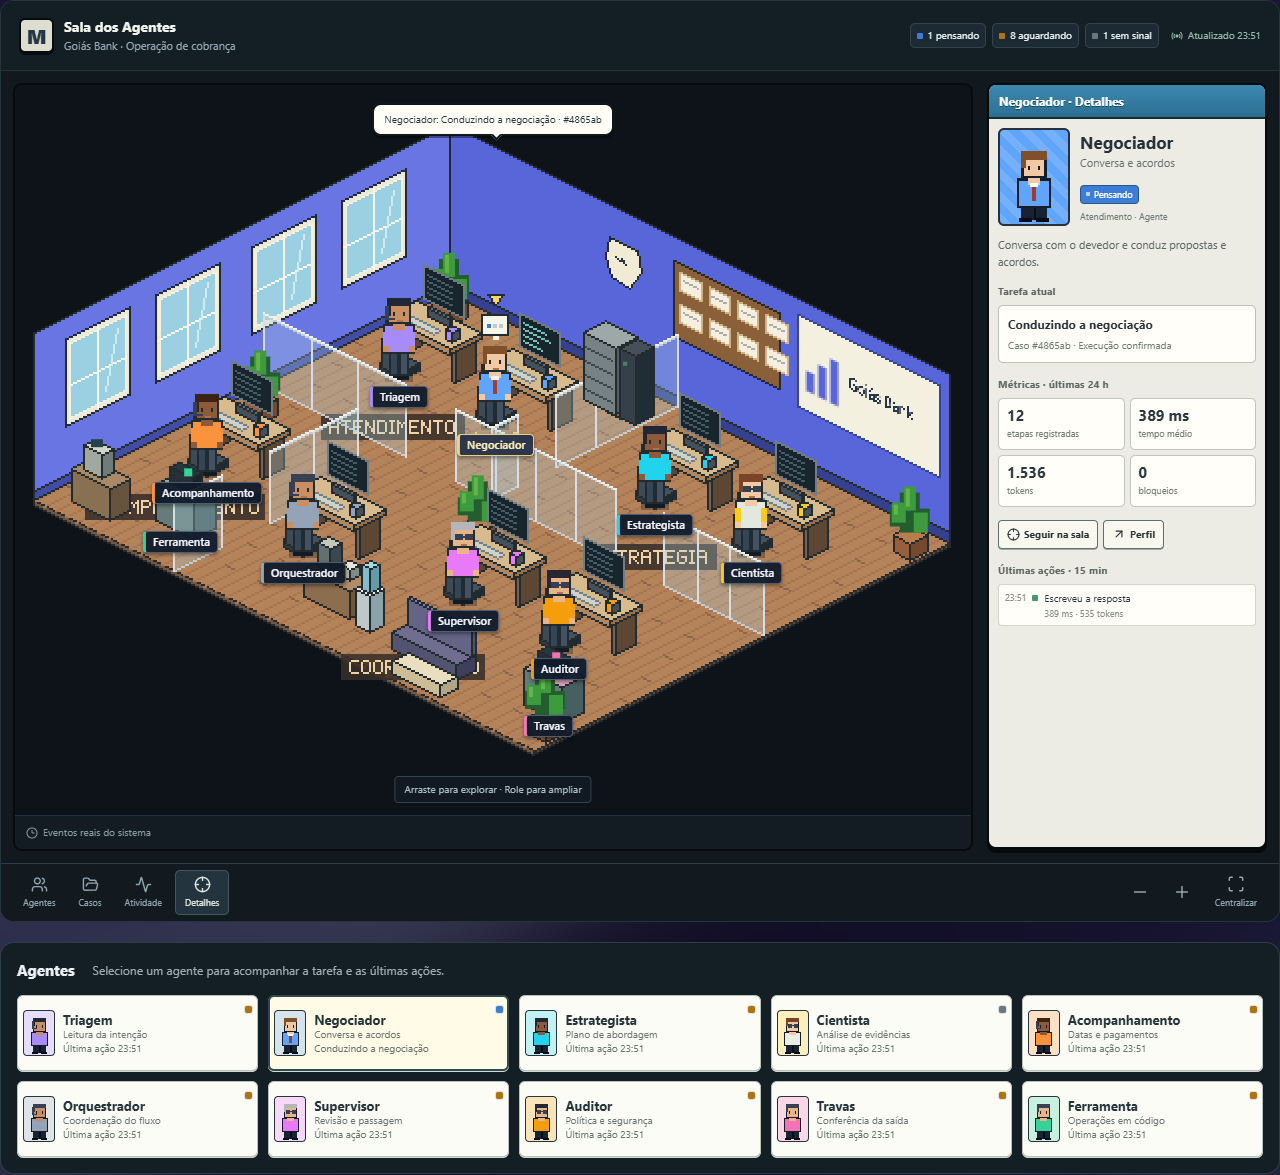
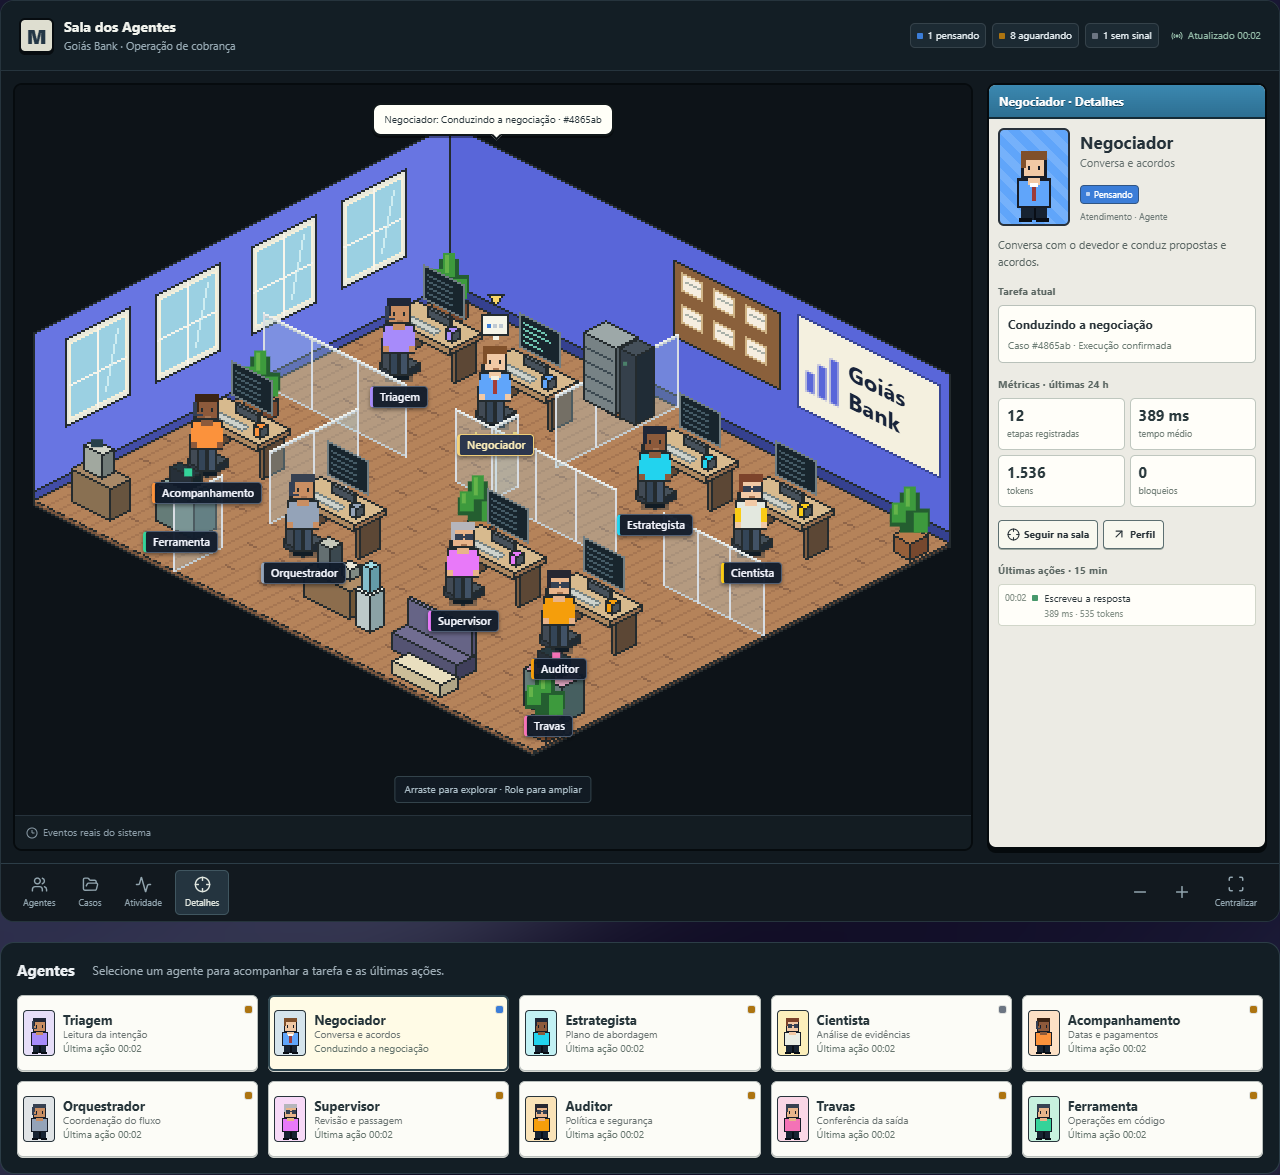
fix: melhorar placa da empresa e conter folhas do mural

diff --git a/frontend/src/components/escritorio/canvas.js b/frontend/src/components/escritorio/canvas.js
@@ -1,5 +1,6 @@
 import { AGENTES } from './config'
-import { PAREDES, texturaNome } from './marca.js'
+import { PAREDES } from './marca.js'
+import { MURAL, FOLHAS_MURAL, PLACA } from './parede.js'
 
 export const W = 544, H = 380
 export const P = (x, y, z = 0) => [240 + (x - y) * 16, 110 + (x + y) * 8 - z]
@@ -41,32 +42,6 @@ export function box(c, x, y, w, d, h, topo, esq, dir, z = 0) {
   poly(c,[f,b,up(b),up(f)],dir)
   poly(c,[up(a),up(b),up(f),up(e)],topo)
 }
-const letras = {
- A:['01110','10001','10001','11111','10001','10001','10001'], B:['11110','10001','10001','11110','10001','10001','11110'],
- C:['01111','10000','10000','10000','10000','10000','01111'], D:['11110','10001','10001','10001','10001','10001','11110'],
- E:['11111','10000','10000','11110','10000','10000','11111'], F:['11111','10000','10000','11110','10000','10000','10000'],
- G:['01111','10000','10000','10111','10001','10001','01110'], H:['10001','10001','10001','11111','10001','10001','10001'],
-  I:['111','010','010','010','010','010','111'], J:['00111','00010','00010','00010','10010','10010','01100'], K:['10001','10010','10100','11000','10100','10010','10001'],
- L:['10000','10000','10000','10000','10000','10000','11111'], M:['10001','11011','10101','10101','10001','10001','10001'],
- N:['10001','11001','11001','10101','10011','10011','10001'], O:['01110','10001','10001','10001','10001','10001','01110'],
- P:['11110','10001','10001','11110','10000','10000','10000'], Q:['01110','10001','10001','10001','10101','10010','01101'],
- R:['11110','10001','10001','11110','10100','10010','10001'], S:['01111','10000','10000','01110','00001','00001','11110'],
- T:['11111','00100','00100','00100','00100','00100','00100'], U:['10001','10001','10001','10001','10001','10001','01110'],
-  V:['10001','10001','10001','10001','10001','01010','00100'], W:['10001','10001','10001','10101','10101','11011','10001'], X:['10001','10001','01010','00100','01010','10001','10001'],
- Y:['10001','10001','01010','00100','00100','00100','00100'], Z:['11111','00001','00010','00100','01000','10000','11111'],
-}
-export function pixelText(c, texto, x, y, cor = '#f5eee4') {
-  c.fillStyle=cor
-  for (const char of texto.normalize('NFD').replace(/[\u0300-\u036f]/g,'').toUpperCase()) {
-    const gl=letras[char]
-    if (gl) gl.forEach((row,j)=>[...row].forEach((v,i)=>{if(v==='1')c.fillRect(Math.round(x+i),Math.round(y+j),1,1)}))
-    x+=(gl?.[0].length||3)+1
-  }
-}
-function placa(c, nome, x, y) {
-  c.fillStyle='#362e29dd'; c.fillRect(x-4,y-3,nome.length*6+6,13)
-  pixelText(c,nome,x,y,'#f0d3a4')
-}
 function janela(c, y) {
   poly(c,[P(0,y,73),P(0,y+2,73),P(0,y+2,29),P(0,y,29)],'#e8e9dc')
   poly(c,[P(0,y+.13,70),P(0,y+1.87,70),P(0,y+1.87,32),P(0,y+.13,32)],'#9bd0e2','#f5f0da')
@@ -88,12 +63,15 @@ export function background(nomeEmpresa, logo) {
   poly(c,[P(0,13),P(0,0),P(0,0,5),P(0,13,5)],PAREDES.rodapeEsquerdo)
   poly(c,[P(0,0),P(15.6,0),P(15.6,0,5),P(0,0,5)],PAREDES.rodapeDireito)
   for(const y of [1.4,4.2,7.2,10]) janela(c,y)
-  // Mural de cortiça e papéis presos na parede direita.
-  poly(c,[P(7,0,72),P(10.3,0,72),P(10.3,0,34),P(7,0,34)],'#8a603b')
-  for(let x=7.2;x<10;x+=.9) for(const z of [43,59]) {
-    poly(c,[P(x,0,z+9),P(x+.65,0,z+9),P(x+.65,0,z),P(x,0,z)],'#f6eee0','#d0b486')
-    line(c,P(x+.1,0,z+5),P(x+.52,0,z+5),'#a9b0a8')
+  // Folhas decorativas contidas na área interna do mural.
+  const mural=[P(MURAL.esquerda,0,MURAL.alto),P(MURAL.direita,0,MURAL.alto),P(MURAL.direita,0,MURAL.baixo),P(MURAL.esquerda,0,MURAL.baixo)]
+  poly(c,mural,'#8a603b')
+  c.save();c.beginPath();mural.forEach(([x,y],i)=>i?c.lineTo(x,y):c.moveTo(x,y));c.closePath();c.clip()
+  for(const {x,z,largura,altura} of FOLHAS_MURAL) {
+    poly(c,[P(x,0,z+altura),P(x+largura,0,z+altura),P(x+largura,0,z),P(x,0,z)],'#f6eee0','#d0b486')
+    line(c,P(x+.1,0,z+5),P(x+largura-.1,0,z+5),'#a9b0a8')
   }
+  c.restore()
   const placaEmpresa=[P(10.9,0,76),P(15.3,0,76),P(15.3,0,30),P(10.9,0,30)]
   poly(c,placaEmpresa,'#f4f0df','#374594')
   c.save();c.beginPath();placaEmpresa.forEach(([x,y],i)=>i?c.lineTo(x,y):c.moveTo(x,y));c.closePath();c.clip()
@@ -101,11 +79,17 @@ export function background(nomeEmpresa, logo) {
   c.save(); c.setTransform(1,.5,0,1,lx,ly)
   if (logo) {const escala=Math.min(18/logo.width,18/logo.height);c.drawImage(logo,0,10+(18-logo.height*escala)/2,logo.width*escala,logo.height*escala)}
   else { c.fillStyle='#5966d9'; c.fillRect(1,22,4,10); c.fillRect(7,16,4,16); c.fillRect(13,10,4,22) }
-  const nome=texturaNome(nomeEmpresa).canvas
-  c.drawImage(nome,22,0,40,38);c.restore();c.restore()
-  placa(c,'ATENDIMENTO',180,174); placa(c,'ESTRATEGIA',312,239)
-  placa(c,'ACOMPANHAMENTO',62,214); placa(c,'COORDENACAO',190,294)
+  c.restore();c.restore()
   return cv
+}
+export function desenharNomeEmpresa(c,layout) {
+  const [x,y]=P(PLACA.x,0,PLACA.z)
+  c.save();c.transform(1,.5,0,1,x,y)
+  c.beginPath();c.rect(PLACA.textoX,PLACA.textoY,PLACA.largura,PLACA.altura);c.clip()
+  c.font=`700 ${layout.fonte}px system-ui, sans-serif`;c.textBaseline='middle';c.fillStyle='#18243b'
+  const topo=PLACA.textoY+(PLACA.altura-layout.linhas.length*layout.alturaLinha)/2
+  layout.linhas.forEach((l,i)=>c.fillText(l,PLACA.textoX,topo+(i+.5)*layout.alturaLinha))
+  c.restore()
 }
 function planta(c,x,y) {
   box(c,x,y,.55,.55,8,'#b87d4d','#97603a','#76482e')
@@ -171,7 +155,7 @@ export function avatar(c,a,pos,t,estado,direcao=0,andando=false,selecionado=fals
   if(selecionado){const dy=Math.floor(t/450)%2;poly(c,[[x-4,y-67+dy],[x+4,y-67+dy],[x,y-62+dy]],'#f9d569')}
 }
 
-export function objects(views,t,clock) {
+export function objects(views,t) {
   const out=views.map(a=>({depth:a.i+a.j+1,draw:c=>mesa(c,a,a.status,t)}))
   for(const [x,y] of [[.5,.5],[6.1,.7],[15,.6],[.6,6.5],[7.9,7],[15,12]]) out.push({depth:x+y+.5,draw:c=>planta(c,x,y)})
   for(const g of [[0,5.8,4.4,5.8],[6,5.8,11,5.8],[12.5,5.8,15.6,5.8],[7.1,0,7.1,3.8],[7.1,5,7.1,5.8],[4.4,7.3,4.4,10],[4.4,11.5,4.4,13]]) out.push({depth:g[0]+g[1]+.1,draw:c=>vidro(c,...g)})
@@ -198,13 +182,6 @@ export function objects(views,t,clock) {
     box(c,10.2,11.4,2,.6,8,'#716d91','#545372','#403f5b')
     box(c,10.2,11.4,2,.13,13,'#8580a3','#666486','#51506f',8)
     box(c,11,12.25,1.5,.55,6,'#e9dfbf','#cbbd98','#b0a586')
-  }})
-  out.push({depth:-1,draw:c=>{
-    const p=P(5.5,0,58); const [x,y]=p
-    poly(c,[[x-8,y-14],[x+6,y-7],[x+8,y+4],[x+2,y+12],[x-7,y+6],[x-10,y-4]],'#f1ead5')
-    const hr=clock.getHours()%12, mn=clock.getMinutes()
-    line(c,[x,y],[x+Math.sin(mn*Math.PI/30)*6,y-Math.cos(mn*Math.PI/30)*7],'#283442')
-    line(c,[x,y],[x+Math.sin(hr*Math.PI/6)*4,y-Math.cos(hr*Math.PI/6)*4],'#283442')
   }})
   return out
 }

diff --git a/frontend/src/components/escritorio/marca.js b/frontend/src/components/escritorio/marca.js
@@ -2,10 +2,10 @@ export const AZUL_MIZAN = '#5966d9'
 export const PAREDES = { esquerda: '#6875e2', direita: AZUL_MIZAN, rodapeEsquerdo: '#424da6', rodapeDireito: '#35418f' }
 
 /** Ajuste por medição real da fonte, incluindo palavras sem espaços. */
-export function ajustarNomeEmpresa(nome, medir, largura=320, altura=228) {
+export function ajustarNomeEmpresa(nome, medir, largura=320, altura=228, {maxFonte=52,minFonte=22,maxLinhas=3}={}) {
   const texto=String(nome||'MIZAN').normalize('NFC').trim().replace(/\s+/g,' ') || 'MIZAN'
-  let linhas=[], fonte=52
-  for(;fonte>=22;fonte--) {
+  let linhas=[], fonte=maxFonte
+  for(;fonte>=minFonte;fonte--) {
     linhas=['']
     for(const palavra of texto.split(' ')) {
       const i=linhas.length-1, candidato=linhas[i]?`${linhas[i]} ${palavra}`:palavra
@@ -16,24 +16,19 @@ export function ajustarNomeEmpresa(nome, medir, largura=320, altura=228) {
         for(const char of palavra){const k=linhas.length-1;if(medir(linhas[k]+char,fonte)>largura&&linhas[k])linhas.push(char);else linhas[k]+=char}
       }
     }
-    if(linhas.length<=3&&linhas.length*fonte*1.2<=altura)break
+    if(linhas.length<=maxLinhas&&linhas.length*Math.ceil(fonte*1.2)<=altura)break
   }
-  fonte=Math.max(22,fonte)
-  if(linhas.length>3){linhas=linhas.slice(0,3);let ultima=linhas[2];while(ultima&&medir(ultima+'…',fonte)>largura)ultima=ultima.slice(0,-1);linhas[2]=ultima+'…'}
+  fonte=Math.max(minFonte,fonte)
+  if(linhas.length>maxLinhas){linhas=linhas.slice(0,maxLinhas);let ultima=linhas[maxLinhas-1];while(ultima&&medir(ultima+'…',fonte)>largura)ultima=ultima.slice(0,-1);linhas[maxLinhas-1]=ultima+'…'}
   return {texto,linhas,fonte,alturaLinha:Math.ceil(fonte*1.2)}
 }
-export function texturaNome(nome) {
-  const cv=document.createElement('canvas');cv.width=320;cv.height=228
-  const c=cv.getContext('2d')
-  const medir=(t,f)=>{c.font=`600 ${f}px system-ui, sans-serif`;return c.measureText(t).width}
-  const layout=ajustarNomeEmpresa(nome,medir)
-  c.fillStyle='#25334b';c.font=`600 ${layout.fonte}px system-ui, sans-serif`;c.textBaseline='top'
-  const topo=Math.floor((cv.height-layout.linhas.length*layout.alturaLinha)/2)
-  layout.linhas.forEach((l,i)=>c.fillText(l,0,topo+i*layout.alturaLinha))
-  return {canvas:cv,layout}
+export function prepararNomeEmpresa(nome) {
+  const c=document.createElement('canvas').getContext('2d')
+  const medir=(t,f)=>{c.font=`700 ${f}px system-ui, sans-serif`;return c.measureText(t).width}
+  return ajustarNomeEmpresa(nome,medir,40,38,{maxFonte:11,minFonte:6,maxLinhas:3})
 }
 export function validarPlaca(nome) {
-  const {canvas,layout}=texturaNome(nome),c=canvas.getContext('2d')
-  c.font=`600 ${layout.fonte}px system-ui, sans-serif`
-  return {...layout,cabe:layout.linhas.every(l=>c.measureText(l).width<=320)&&layout.linhas.length*layout.alturaLinha<=228}
+  const layout=prepararNomeEmpresa(nome),c=document.createElement('canvas').getContext('2d')
+  c.font=`700 ${layout.fonte}px system-ui, sans-serif`
+  return {...layout,cabe:layout.linhas.every(l=>c.measureText(l).width<=40)&&layout.linhas.length*layout.alturaLinha<=38}
 }

diff --git a/frontend/src/components/escritorio/SalaCanvas.jsx b/frontend/src/components/escritorio/SalaCanvas.jsx
@@ -1,7 +1,8 @@
 import { useEffect, useRef, useState } from 'react'
 import { AGENTES, MESAS, mensagem } from './config'
-import { P, background, objects, avatar, assento, caminho } from './canvas'
+import { P, background, objects, avatar, assento, caminho, desenharNomeEmpresa } from './canvas'
 import { enquadrar, posicionarNomes } from './geometria.js'
+import { prepararNomeEmpresa } from './marca.js'
 
 export default function SalaCanvas({ agentes, sinais, selecionado, onSelecionar, controle, seguir, nomeEmpresa, logoUrl, obsoleto, onManual }) {
   const area=useRef(null), canvas=useRef(null), dados=useRef({}), camera=useRef({s:1,x:0,y:0}), passeios=useRef(new Map())
@@ -26,6 +27,7 @@ export default function SalaCanvas({ agentes, sinais, selecionado, onSelecionar,
   useEffect(()=>{
     const el=area.current, cv=canvas.current
     let vivo=true, frame, largura=0, altura=0, cache=background(nomeEmpresa), ultimo=0, drag=null
+    const nomeLegivel=prepararNomeEmpresa(nomeEmpresa)
     const reduz=window.matchMedia('(prefers-reduced-motion: reduce)').matches
     let pontos=[]
     const centrar=()=>{camera.current=enquadrar(largura,altura)}
@@ -58,7 +60,8 @@ export default function SalaCanvas({ agentes, sinais, selecionado, onSelecionar,
       if(ds.seguir&&ds.selecionado){const a=atores.find(a=>a.nome===ds.selecionado);if(a){const p=P(...a.pos);x=Math.round(largura/2-p[0]*s);y=Math.round(altura/2-(p[1]-22)*s);camera.current={s,x,y}}}
       context.setTransform(1,0,0,1,0,0);context.fillStyle='#0d1318';context.fillRect(0,0,largura,altura)
       context.imageSmoothingEnabled=false; context.setTransform(s,0,0,s,x,y);context.drawImage(cache,0,0)
-      const desenhos=objects(ds.agentes||AGENTES,reduz?0:t,new Date())
+      desenharNomeEmpresa(context,nomeLegivel)
+      const desenhos=objects(ds.agentes||AGENTES,reduz?0:t)
       for(const a of atores)desenhos.push({depth:a.pos[0]+a.pos[1]+.1,draw:c=>avatar(c,a,a.pos,reduz?0:t,ds.obsoleto?'desconhecido':a.status,a.dir,a.andando,a.nome===ds.selecionado)})
       desenhos.sort((a,b)=>a.depth-b.depth).forEach(o=>o.draw(context))
       pontos=(ds.agentes||AGENTES).map(a=>{

diff --git a/frontend/src/components/escritorio/parede.js b/frontend/src/components/escritorio/parede.js
@@ -1,0 +1,4 @@
+// Geometria compartilhada pelo desenho e pelos testes de contenção do mural.
+export const MURAL = { esquerda: 7, direita: 10.3, baixo: 34, alto: 72 }
+export const FOLHAS_MURAL = [7.25, 8.25, 9.25].flatMap(x => [43, 59].map(z => ({ x, z, largura: .65, altura: 9 })))
+export const PLACA = { esquerda: 10.9, direita: 15.3, baixo: 30, alto: 76, x: 11.1, z: 72, textoX: 22, textoY: 1, largura: 40, altura: 38 }

diff --git a/docs/QA_ESCRITORIO_AGENTES.md b/docs/QA_ESCRITORIO_AGENTES.md
@@ -15,6 +15,8 @@ Paredes no azul MIZAN `#5966d9`, com a outra face mais clara. Nomes canônicos p
 | REG-RESP-005 | Transbordamento horizontal e seleção inacessível | 1920, 1440, 1280, 1024, 760, 390 e 320 px; seleção por Enter e permanência na mesma página. |
 | REG-COLOR-006 | Paredes voltarem à cor antiga | Cor da configuração e amostra de pixels da parede renderizada. |
 | REG-NAMES-007 | Etiquetas existirem no DOM, mas ficarem invisíveis abaixo do canvas | Todos os retângulos das etiquetas ficam dentro do cenário. A inspeção da captura revelou falta de `left:0; top:0`, corrigida e coberta por esta asserção. |
+| REG-MURAL-008 | Folhas decorativas ultrapassarem o mural | Seis folhas em posições explícitas, com largura/altura contidas na moldura e margem em todos os lados; o desenho também recorta o conteúdo ao mural. |
+| REG-BRAND-009 | Letras pequenas e pixeladas tornarem o nome da empresa ilegível | Goiás Bank em duas linhas, fonte maior e nome preservado; texto desenhado diretamente na resolução da tela, sem reduzir uma textura ao buffer pixelado. |
 
 Também verificados: Casos/Atividade/Detalhes, seguir e centralizar, preservação de dados na perda de conexão, recuperação automática, feed sem duplicação e ausência de erros de JavaScript.
 
@@ -32,4 +34,6 @@ Os testes de modelo usam somente Node. O teste de navegador precisa de Playwrigh
 
 As APIs e a autenticação são substituídas por fixtures locais no navegador isolado. Não são usadas credenciais nem sessões reais. A suite sobe e encerra seu próprio Vite. Nenhuma dependência de produção foi adicionada.
 
-Resultado nesta alteração: cinco testes de modelo passaram, suite de navegador passou e build de produção passou. As capturas de desktop e celular mostram dados de teste. A validação cobre os cenários descritos, sem afirmar ausência de qualquer possível problema em dispositivos não testados.
+Resultado atual: sete testes de modelo passaram, suite de navegador passou e build de produção passou. As capturas de desktop e celular mostram dados de teste. A validação cobre os cenários descritos, sem afirmar ausência de qualquer possível problema em dispositivos não testados.
+
+Na limpeza visual posterior, o relógio da parede e os nomes dos departamentos desenhados no piso foram removidos. A comparação de pixels da placa continua verificando que o texto, agora renderizado em resolução de tela, não ultrapassa sua área. O QA visual conferiu a placa legível e as seis folhas dentro do mural.
